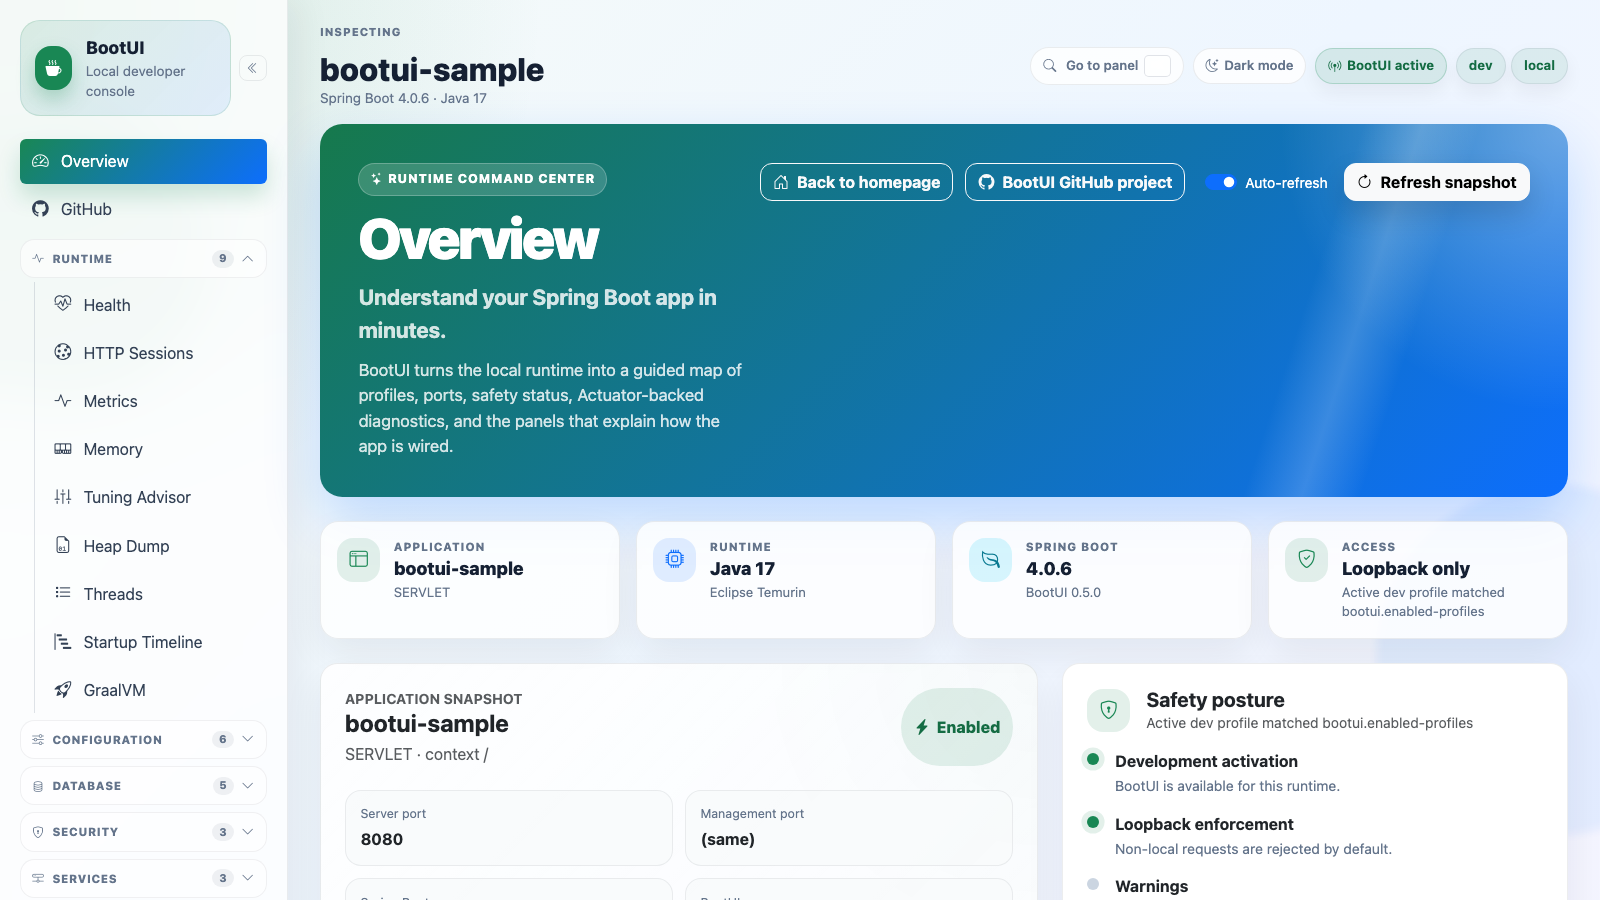
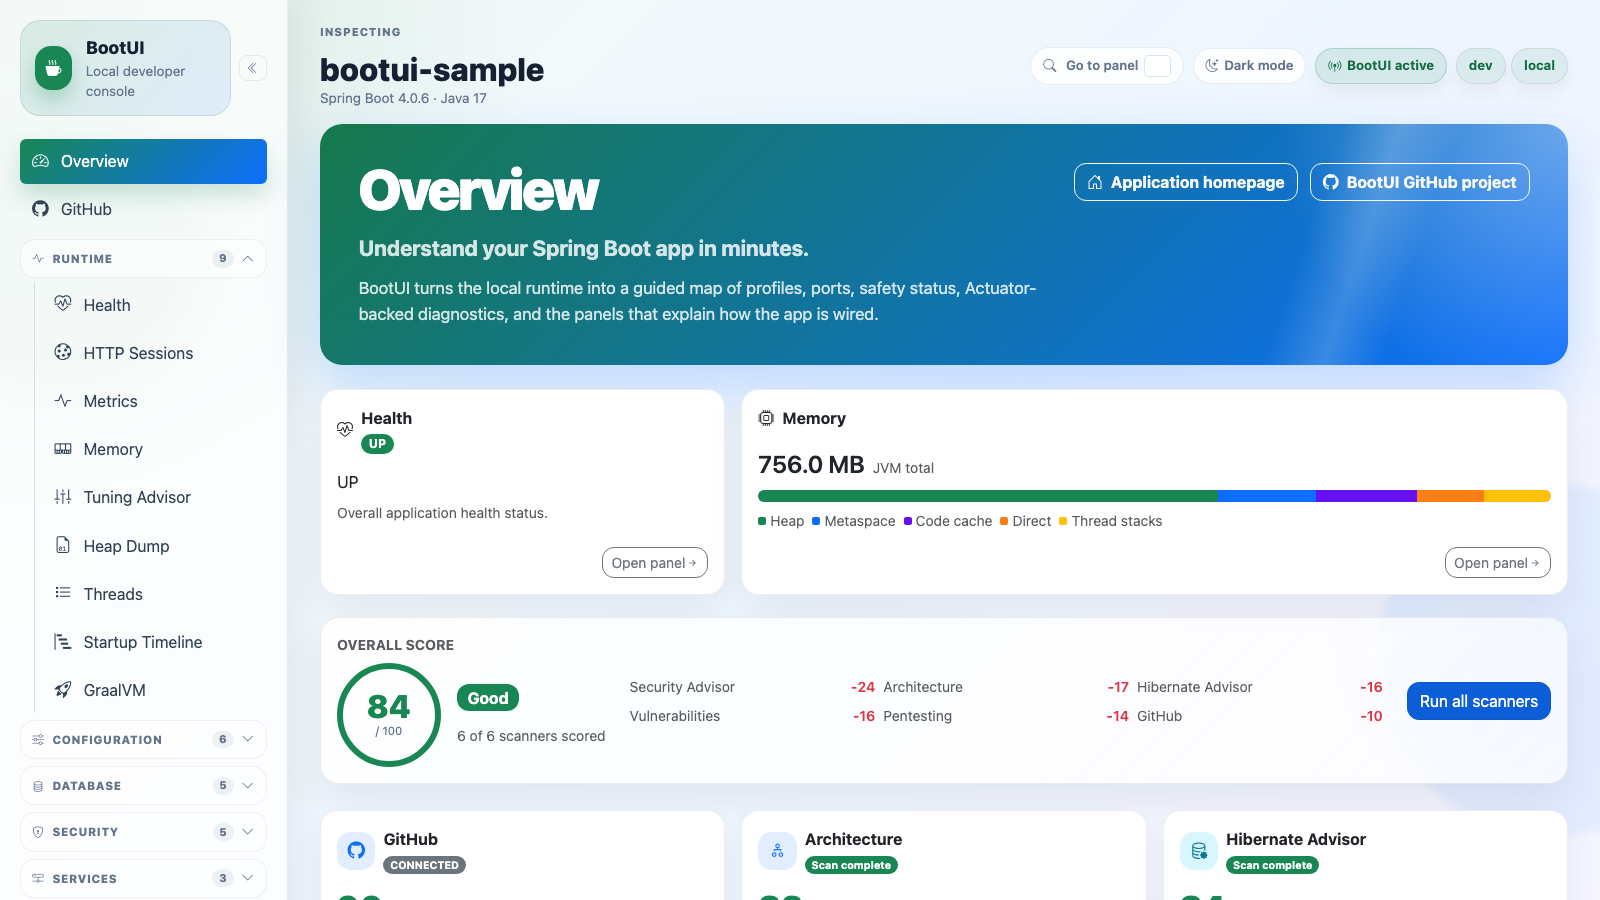
Update overview screenshot
Regenerate the Overview documentation screenshot, make the capture reproducible, and place the screenshot below the VuePress homepage hero.

diff --git a/docs/.vuepress/styles/index.css b/docs/.vuepress/styles/index.css
@@ -326,6 +326,8 @@ body {
 
 .vp-home {
   animation: fade-up 360ms ease both;
+  display: flex;
+  flex-direction: column;
 }
 
 .vp-page {
@@ -344,6 +346,7 @@ body {
 }
 
 .vp-hero {
+  order: 1;
   max-width: 68rem;
   margin-top: 2rem;
   padding: 3rem;
@@ -410,6 +413,7 @@ body {
 
 .vp-features {
   gap: 1rem;
+  order: 3;
 }
 
 .vp-feature {
@@ -536,6 +540,33 @@ body {
   border: 1px solid var(--bootui-border);
   border-radius: 1.1rem;
   box-shadow: var(--bootui-shadow-sm);
+}
+
+.vp-home > [vp-content] {
+  display: contents;
+}
+
+.vp-home > [vp-content] > div {
+  display: contents;
+}
+
+.vp-home > [vp-content] > div > p:first-child {
+  order: 2;
+  margin: 2rem 0 0;
+}
+
+.vp-home > [vp-content] > div > p:first-child img[src*='bootui-overview'] {
+  width: min(100%, 58rem);
+  margin: 0 auto;
+  box-shadow: var(--bootui-shadow-md);
+}
+
+.vp-home > [vp-content] > div > :not(p:first-child) {
+  order: 4;
+}
+
+.vp-home > .vp-footer {
+  order: 5;
 }
 
 [vp-content] code {